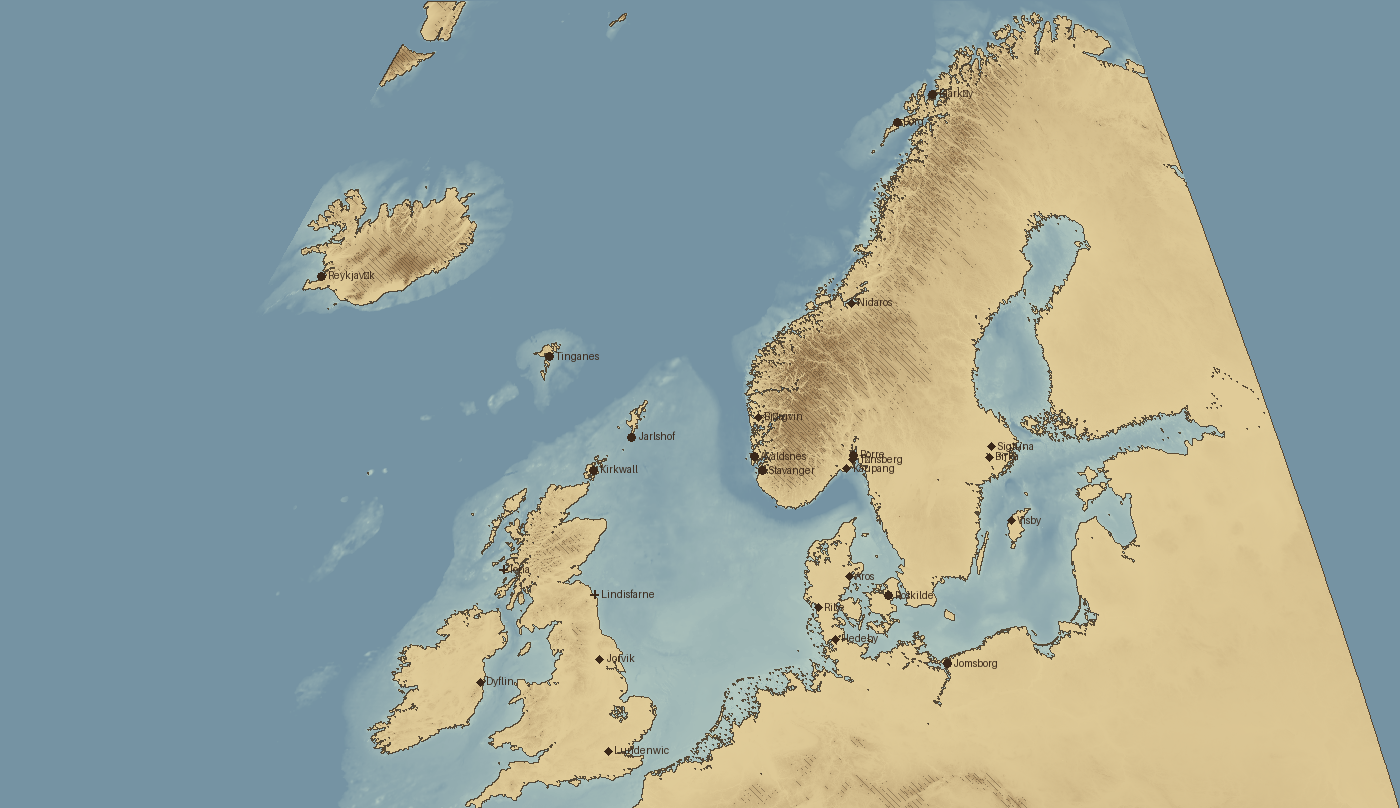
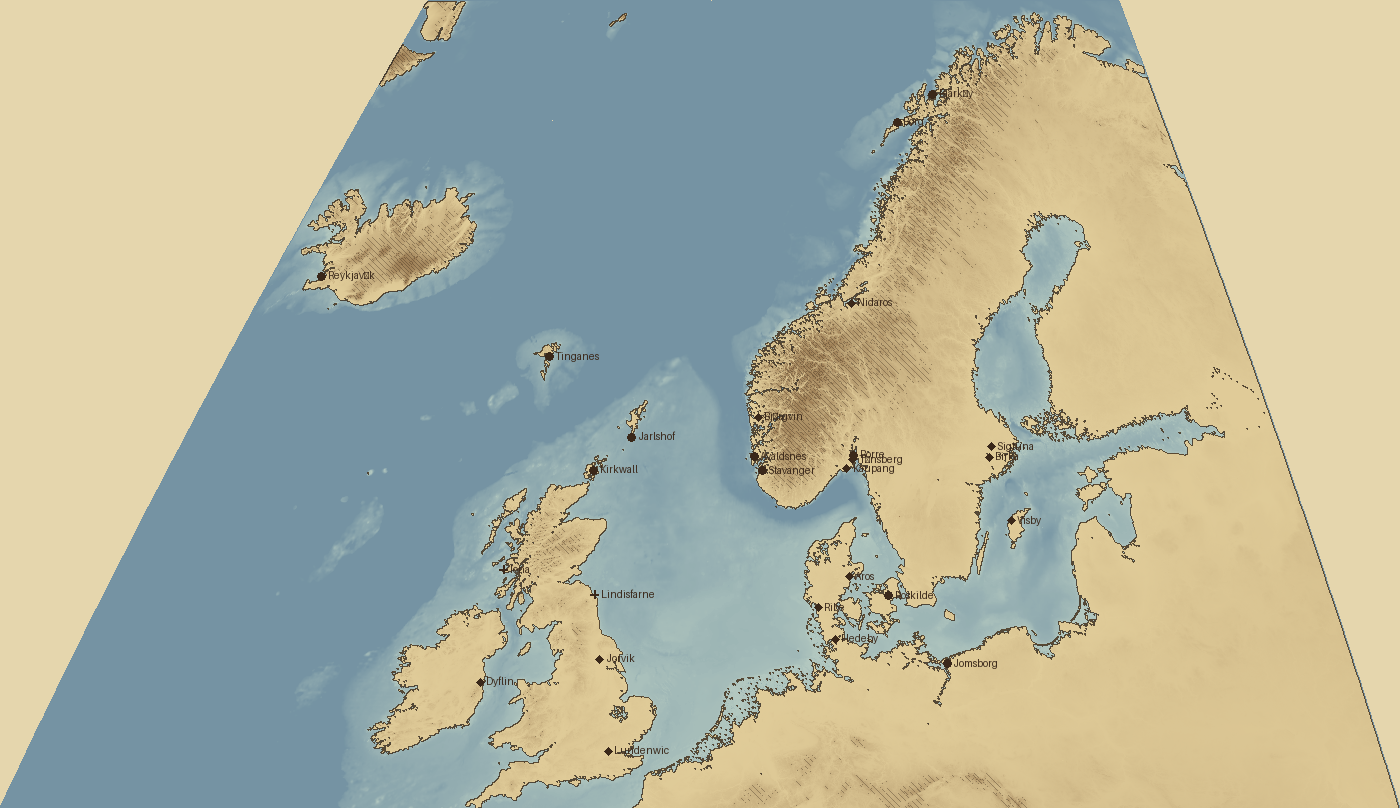
Sea chart: beyond the map's region is blank parchment, with no false coastline
Claude-Session: https://claude.ai/code/session_01SCdejJ1UF8RUxAkkFhZXGU

Changed region(s): [[0.0, 0.0, 0.3071, 0.9901], [0.7986, 0.0, 1.0, 0.9901]]

diff --git a/OdinsCoin/Assets/Scripts/UI/SeaChart.cs b/OdinsCoin/Assets/Scripts/UI/SeaChart.cs
@@ -23,6 +23,9 @@ namespace OdinsCoin
 
         // ---- The drawing, as plain maths ----
 
+        /// <summary>The height the map gives everywhere outside its region (tools/world/build_map.py).</summary>
+        public const float NoData = -2000f;
+
         public static readonly Color Parchment = new Color(0.9f, 0.84f, 0.68f), Ink = new Color(0.22f, 0.16f, 0.1f);
 
         /// <summary>The chart's colour for ground at a height (m): sea blues by depth, land ochres by height.</summary>
@@ -46,16 +49,19 @@ namespace OdinsCoin
             var px = new Color[w * h];
             float sx = (map.Width - 1) / (float)Mathf.Max(1, w - 1), sz = (map.Height - 1) / (float)Mathf.Max(1, h - 1);
             System.Func<int, int, float> at = (x, y) => map.At(Mathf.Clamp(Mathf.RoundToInt(x * sx), 0, map.Width - 1), Mathf.Clamp(Mathf.RoundToInt(y * sz), 0, map.Height - 1));
+            // Beyond the map's region the data is a flat -2000 m: leave that parchment, unexplored, with no coast.
+            System.Func<int, int, bool> blank = (x, y) => at(x, y) == NoData && at(x + 1, y) == NoData && at(x - 1, y) == NoData && at(x, y + 1) == NoData && at(x, y - 1) == NoData;
             for (int y = 0; y < h; y++)
                 for (int x = 0; x < w; x++)
                 {
                     float hgt = at(x, y);
+                    if (blank(x, y)) { px[y * w + x] = Parchment; continue; }
                     var c = Tint(hgt);
                     // Pen hatching on high ground, denser the higher it is.
                     if (hgt > 500f && ((x + y) % Mathf.Max(2, 7 - Mathf.FloorToInt(hgt / 400f)) == 0)) c = Color.Lerp(c, Ink, 0.35f);
                     // The coastline in ink.
                     bool land = hgt >= 0f;
-                    if ((at(x + 1, y) >= 0f) != land || (at(x, y + 1) >= 0f) != land) c = Color.Lerp(c, Ink, 0.8f);
+                    if (((at(x + 1, y) >= 0f) != land && !blank(x + 1, y)) || ((at(x, y + 1) >= 0f) != land && !blank(x, y + 1))) c = Color.Lerp(c, Ink, 0.8f);
                     px[y * w + x] = c;
                 }
             return px;
